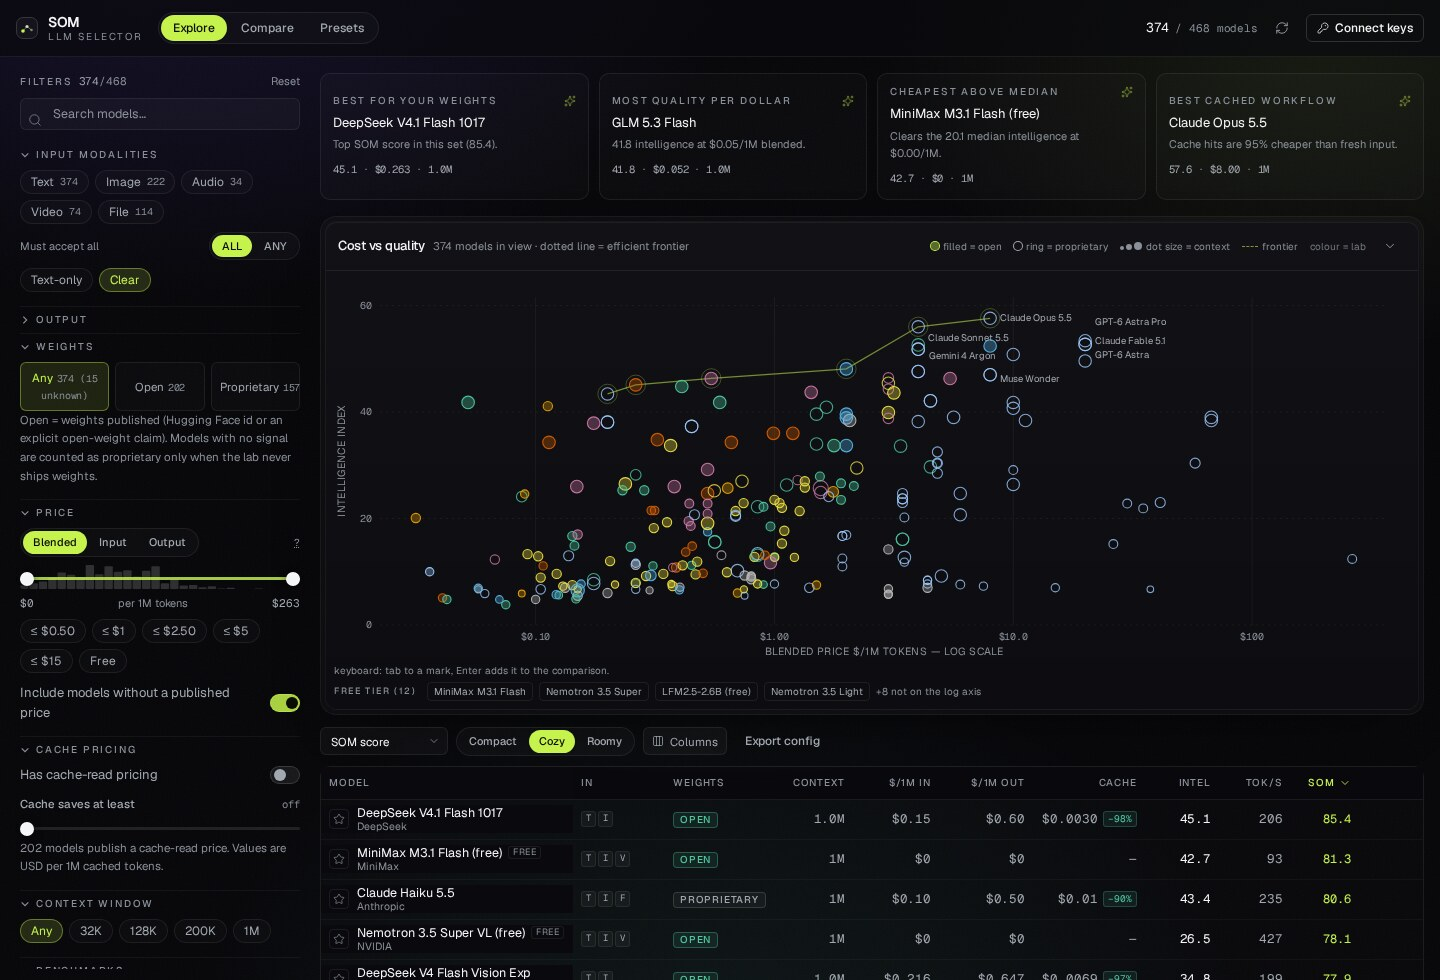
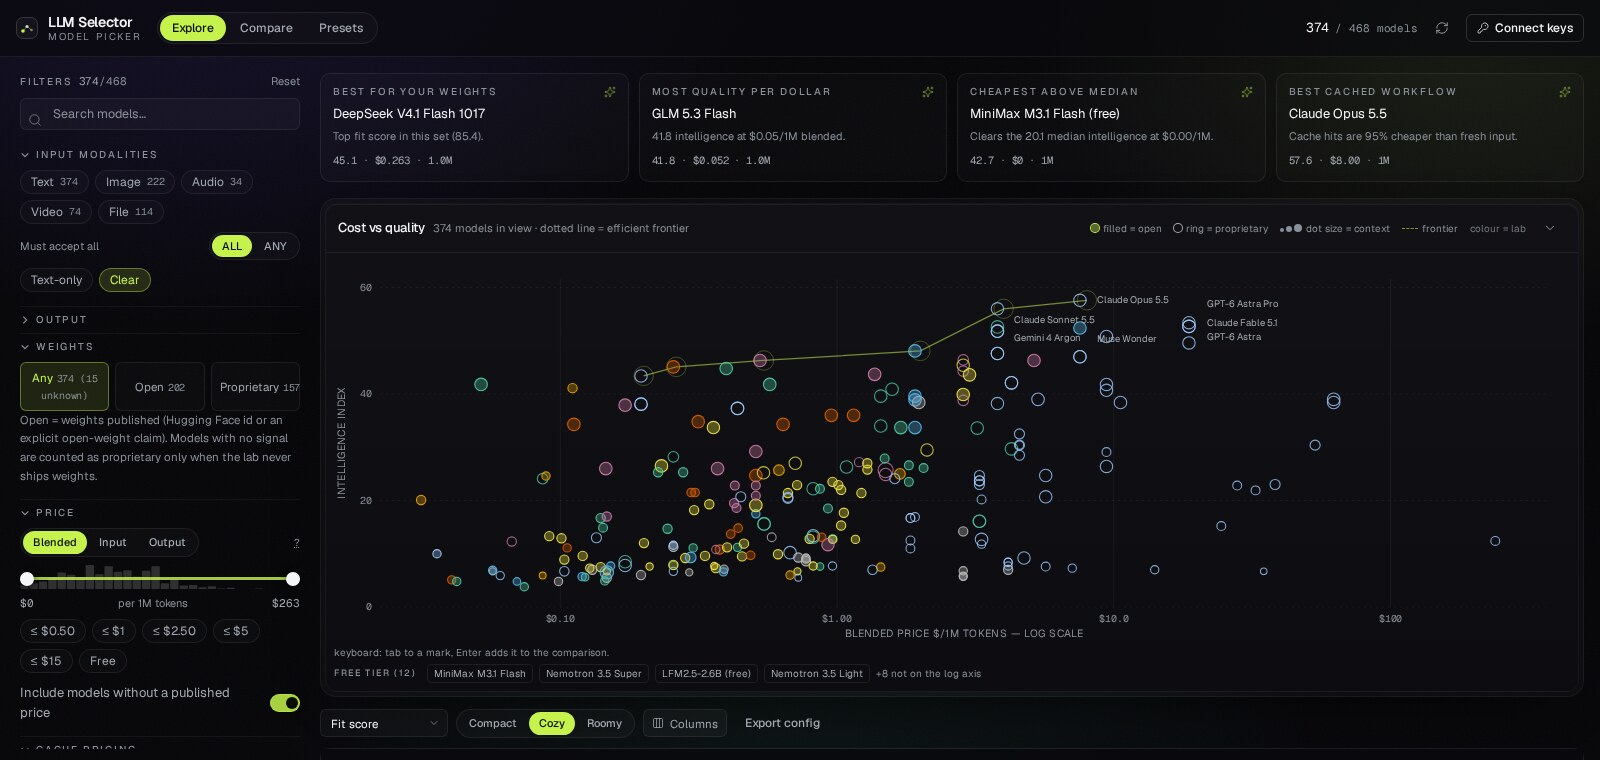
refactor: rename the product to LLM Selector (#7)
SOM is the system family (jev, leya, …); the product that picks an individual
model is the LLM Selector. Renames the wordmark, title, the SOM score (now
'fit score'), storage keys (llm-selector.*), the config app id and every doc
reference.

diff --git a/src/App.tsx b/src/App.tsx
@@ -43,7 +43,7 @@ import {
 import { buildConfig, importConfig, slugifyName } from "@/lib/presets";
 import {
   WEIGHT_LABELS,
-  computeSomScores,
+  computeFitScores,
   paretoFrontier,
   recommend,
 } from "@/lib/scoring";
@@ -108,13 +108,13 @@ export default function App() {
   const models = catalog?.models ?? [];
   const filtered = useMemo(() => applyFilters(models, filters), [models, filters]);
   const counts = useMemo(() => facetCounts(models, filters), [models, filters]);
-  const scoreParts = useMemo(() => computeSomScores(filtered, weights), [filtered, weights]);
-  const somMap = useMemo(() => {
+  const scoreParts = useMemo(() => computeFitScores(filtered, weights), [filtered, weights]);
+  const fitMap = useMemo(() => {
     const map = new Map<string, number>();
     for (const [id, parts] of scoreParts) map.set(id, parts.score);
     return map;
   }, [scoreParts]);
-  const sorted = useMemo(() => sortModels(filtered, sort, somMap), [filtered, sort, somMap]);
+  const sorted = useMemo(() => sortModels(filtered, sort, fitMap), [filtered, sort, fitMap]);
   const frontier = useMemo(() => paretoFrontier(filtered), [filtered]);
   const picks = useMemo(() => recommend(filtered, scoreParts), [filtered, scoreParts]);
   const modelsById = useMemo(() => new Map(models.map((model) => [model.id, model])), [models]);
@@ -247,9 +247,9 @@ export default function App() {
             <a href="#results" className="flex items-center gap-2.5">
               <BrandMark />
               <div className="leading-none">
-                <div className="text-[14px] font-semibold tracking-[-0.02em] text-fg">SOM</div>
+                <div className="text-[14px] font-semibold tracking-[-0.02em] text-fg">LLM Selector</div>
                 <div className="mt-[3px] hidden text-[10px] uppercase tracking-[0.16em] text-fg-dim sm:block">
-                  LLM selector
+                  model picker
                 </div>
               </div>
             </a>
@@ -355,7 +355,7 @@ export default function App() {
                 filtered={filtered}
                 sorted={sorted}
                 frontier={frontier}
-                somMap={somMap}
+                fitMap={fitMap}
                 sort={sort}
                 density={density}
                 columns={columns}
@@ -485,7 +485,7 @@ function ExploreView({
   filtered,
   sorted,
   frontier,
-  somMap,
+  fitMap,
   sort,
   density,
   columns,
@@ -506,7 +506,7 @@ function ExploreView({
   filtered: ReturnType<typeof applyFilters>;
   sorted: ReturnType<typeof sortModels>;
   frontier: Set<string>;
-  somMap: Map<string, number>;
+  fitMap: Map<string, number>;
   sort: Sort;
   density: "compact" | "cozy" | "comfortable";
   columns: typeof DEFAULT_COLUMNS;
@@ -702,7 +702,7 @@ function ExploreView({
             density={density}
             columns={columns}
             selected={selected}
-            somScores={somMap}
+            fitScores={fitMap}
             onSort={onSort}
             onToggle={onToggle}
             onInspect={onInspect}

diff --git a/src/lib/scoring.ts b/src/lib/scoring.ts
@@ -61,11 +61,11 @@ function qualityOf(model: LlmModel): number | null {
 }
 
 /**
- * SOM score: a percentile-normalised blend of the five dimensions the user said they care
+ * Fit score: a percentile-normalised blend of the five dimensions the user said they care
  * about. It is computed *within the current result set*, so it always answers
  * "which of these is best for me" rather than "which is best in absolute terms".
  */
-export function computeSomScores(
+export function computeFitScores(
   models: LlmModel[],
   weights: ScoreWeights,
 ): Map<string, ScoreParts> {
@@ -177,7 +177,7 @@ function median(values: number[]): number {
 /** Three opinionated picks that summarise the current result set. */
 export function recommend(
   models: LlmModel[],
-  somScores: Map<string, ScoreParts>,
+  fitScores: Map<string, ScoreParts>,
 ): Recommendation[] {
   if (!models.length) return [];
   const picks: Recommendation[] = [];
@@ -187,14 +187,14 @@ export function recommend(
   const withPrice = models.filter((m) => m.pricing.blended !== null);
 
   const bestSom = [...models]
-    .filter((m) => somScores.has(m.id))
-    .sort((a, b) => (somScores.get(b.id)?.score ?? 0) - (somScores.get(a.id)?.score ?? 0))[0];
+    .filter((m) => fitScores.has(m.id))
+    .sort((a, b) => (fitScores.get(b.id)?.score ?? 0) - (fitScores.get(a.id)?.score ?? 0))[0];
   if (bestSom) {
     used.add(bestSom.id);
     picks.push({
       id: "best-overall",
       title: "Best for your weights",
-      rationale: `Top SOM score in this set (${somScores.get(bestSom.id)?.score ?? 0}).`,
+      rationale: `Top fit score in this set (${fitScores.get(bestSom.id)?.score ?? 0}).`,
       model: bestSom,
     });
   }

diff --git a/src/components/model/ModelTable.tsx b/src/components/model/ModelTable.tsx
@@ -33,7 +33,7 @@ const COLUMNS: Column[] = [
   { key: "intelligence", label: "Intel", hint: "Artificial Analysis intelligence index", sortKey: "intelligence", align: "right", width: 74, hideInConfig: "intelligence" },
   { key: "coding", label: "Code", hint: "Coding index", sortKey: "coding", align: "right", width: 70, hideInConfig: "coding" },
   { key: "speed", label: "Tok/s", hint: "Median output tokens per second", sortKey: "speed", align: "right", width: 72, hideInConfig: "speed" },
-  { key: "som", label: "SOM", hint: "Blend of your weights, ranked within this set", sortKey: "som", align: "right", width: 68 },
+  { key: "som", label: "FIT", hint: "Fit score: your weights, ranked within this set", sortKey: "som", align: "right", width: 68 },
 ];
 
 export interface ModelTableProps {
@@ -42,7 +42,7 @@ export interface ModelTableProps {
   density: Density;
   columns: ColumnConfig;
   selected: string[];
-  somScores: Map<string, number>;
+  fitScores: Map<string, number>;
   onSort: (key: SortKey) => void;
   onToggle: (id: string) => void;
   onInspect: (id: string) => void;
@@ -55,7 +55,7 @@ export function ModelTable({
   density,
   columns,
   selected,
-  somScores,
+  fitScores,
   onSort,
   onToggle,
   onInspect,
@@ -221,7 +221,7 @@ export function ModelTable({
                     )}
                     {column.key === "som" && (
                       <span className="numeric text-[12px] text-accent">
-                        {somScores.get(model.id)?.toFixed(1) ?? "—"}
+                        {fitScores.get(model.id)?.toFixed(1) ?? "—"}
                       </span>
                     )}
                   </div>

diff --git a/tests/core.test.ts b/tests/core.test.ts
@@ -11,7 +11,7 @@ import {
   type Filters,
 } from "@/lib/filter";
 import { importConfig, mergeFilters, makePreset } from "@/lib/presets";
-import { computeSomScores, paretoFrontier, recommend } from "@/lib/scoring";
+import { computeFitScores, paretoFrontier, recommend } from "@/lib/scoring";
 import { decodeState, encodeState } from "@/lib/url";
 import type { BenchmarkScores, LlmModel } from "@/lib/types";
 
@@ -197,11 +197,11 @@ describe("filter engine", () => {
 
 describe("scoring", () => {
   it("ranks within the filtered set and respects weights", () => {
-    const cheapFirst = computeSomScores(models, { quality: 0, price: 100, speed: 0, context: 0, cache: 0 });
+    const cheapFirst = computeFitScores(models, { quality: 0, price: 100, speed: 0, context: 0, cache: 0 });
     const best = [...cheapFirst.entries()].sort((a, b) => b[1].score - a[1].score)[0];
     expect(best[0]).toBe("free/model");
 
-    const qualityFirst = computeSomScores(models, { quality: 100, price: 0, speed: 0, context: 0, cache: 0 });
+    const qualityFirst = computeFitScores(models, { quality: 100, price: 0, speed: 0, context: 0, cache: 0 });
     const top = [...qualityFirst.entries()].sort((a, b) => b[1].score - a[1].score)[0];
     expect(top[0]).toBe("open/expensive");
   });
@@ -222,7 +222,7 @@ describe("scoring", () => {
   });
 
   it("produces recommendations that exist in the set", () => {
-    const scores = computeSomScores(models, {
+    const scores = computeFitScores(models, {
       quality: 45,
       price: 25,
       speed: 12,

diff --git a/src/lib/filter.ts b/src/lib/filter.ts
@@ -72,7 +72,7 @@ export interface Sort {
 export const DEFAULT_SORT: Sort = { key: "som", dir: -1 };
 
 export const SORT_LABELS: Record<SortKey, string> = {
-  som: "SOM score",
+  som: "Fit score",
   intelligence: "Intelligence",
   coding: "Coding",
   agentic: "Agentic",
@@ -289,12 +289,12 @@ export function valueOf(model: LlmModel, sortKey: SortKey, somScore?: number): n
 export function sortModels(
   models: LlmModel[],
   sort: Sort,
-  somScores: Map<string, number> = new Map(),
+  fitScores: Map<string, number> = new Map(),
 ): LlmModel[] {
   const sorted = [...models];
   sorted.sort((a, b) => {
-    const av = valueOf(a, sort.key, somScores.get(a.id));
-    const bv = valueOf(b, sort.key, somScores.get(b.id));
+    const av = valueOf(a, sort.key, fitScores.get(a.id));
+    const bv = valueOf(b, sort.key, fitScores.get(b.id));
     // Missing data always sinks, regardless of direction — never sort `null` as zero.
     if (av === null && bv === null) return a.name.localeCompare(b.name);
     if (av === null) return 1;

diff --git a/src/lib/presets.ts b/src/lib/presets.ts
@@ -4,7 +4,7 @@ import { DEFAULT_FILTERS, DEFAULT_SORT, type Filters, type Sort } from "./filter
 import { DEFAULT_WEIGHTS, type ScoreWeights } from "./scoring";
 
 export const CONFIG_VERSION = 1;
-export const APP_ID = "som-llm-selector";
+export const APP_ID = "llm-selector";
 
 const modalitySchema = z.enum(["text", "image", "audio", "video", "file"]);
 const outputSchema = z.enum(["text", "image", "audio", "embeddings"]);
@@ -195,7 +195,7 @@ export function buildConfig({
   presets,
 }: BuildConfigArgs) {
   return {
-    $schema: "https://raw.githubusercontent.com/frederico-kluser/som-llm-selector/main/config.schema.json",
+    $schema: "https://raw.githubusercontent.com/frederico-kluser/llm-selector/main/config.schema.json",
     app: APP_ID,
     version: CONFIG_VERSION,
     exportedAt: new Date().toISOString(),

diff --git a/index.html b/index.html
@@ -4,8 +4,8 @@
     <meta charset="UTF-8" />
     <meta name="viewport" content="width=device-width, initial-scale=1.0" />
     <meta name="theme-color" content="#07070a" />
-    <title>SOM — LLM Selector</title>
-    <meta name="description" content="Filter 460+ LLM models by modality, openness, price, cache pricing and benchmarks. Compare, save presets, export your config." />
+    <title>LLM Selector — pick the model that fits your constraints</title>
+    <meta name="description" content="Open-source LLM selector: filter 470+ OpenRouter models by modality, openness, price, cache pricing and benchmarks, compare on charts, save presets, export your config." />
     <link rel="icon" href="/favicon.svg" type="image/svg+xml" />
   </head>
   <body>

diff --git a/src/components/ModelDrawer.tsx b/src/components/ModelDrawer.tsx
@@ -265,7 +265,7 @@ export function ModelDrawer({
                     <div className="mt-2">
                       {!canUseApi && (
                         <p className="text-[11px] text-fg-dim">
-                          Provider stats need the SOM API server. Run <code className="numeric">pnpm dev</code>.
+                          Provider stats need the llm-selector API server. Run <code className="numeric">pnpm dev</code>.
                         </p>
                       )}
                       {providerError && <p className="text-[11px] text-bad">{providerError}</p>}

diff --git a/src/components/views.tsx b/src/components/views.tsx
@@ -320,7 +320,7 @@ export function PresetsView({
       <div className="space-y-4">
         <div className="bezel">
           <div className="bezel-core p-3.5">
-            <span className="eyebrow">SOM score weights</span>
+            <span className="eyebrow">Fit score weights</span>
             <p className="mt-1 text-[11px] leading-relaxed text-fg-dim">
               Your priorities, applied within the current result set. Nothing is hidden — the score
               only reorders what the filters already allow.

diff --git a/src/store/selector.ts b/src/store/selector.ts
@@ -229,7 +229,7 @@ export const useSelector = create<SelectorState>()(
       },
     }),
     {
-      name: "som.selector.v1",
+      name: "llm-selector.view.v1",
       storage: createJSONStorage(() => localStorage),
       partialize: (state) => ({
         filters: state.filters,

diff --git a/src/lib/api.ts b/src/lib/api.ts
@@ -8,7 +8,7 @@ export interface Keys {
   artificialAnalysis: string;
 }
 
-const KEY_STORAGE = "som.keys.v1";
+const KEY_STORAGE = "llm-selector.keys.v1";
 const EMPTY_KEYS: Keys = { openrouter: "", artificialAnalysis: "" };
 
 function parseKeys(raw: string | null): Keys | null {

diff --git a/README.md b/README.md
@@ -1,18 +1,20 @@
-# SOM — LLM Selector
+# LLM Selector
 
 **Find the model that fits your constraints, not the one on the leaderboard.**
 
-SOM is a local-first model selector for the OpenRouter catalogue. Filter 460+ chat models by
+LLM Selector is a local-first model picker for the OpenRouter catalogue. Filter 460+ chat models by
 modality (text / image / audio / video / file), open vs proprietary weights, blended price, cache
 pricing, context window and benchmark floors — then compare what survives on a log-scale cost/quality
 scatter, a benchmark profile and a leaderboard. Save filter sets as presets, and move your whole setup
 in and out as JSON.
 
+> **Naming:** *SOM* is the system family — a system that orchestrates models (`jev`, `leya`); inside an LLM system you find the individual models (`gpt`, `opus`, …). This project is the **LLM Selector**: the thing that picks the model.
+>
 > Code: MIT. Data: see [Data sources & attribution](#data-sources--attribution). This is an
 > independent project — not affiliated with, endorsed by, or sponsored by OpenRouter or Artificial
 > Analysis.
 
-![SOM in the explore view](docs/screenshot.jpg)
+![LLM Selector in the explore view](docs/screenshot.jpg)
 
 ---
 
@@ -21,10 +23,10 @@ in and out as JSON.
 Every "best LLM" list answers a question you did not ask. The useful question is *"of the models I can
 actually call, which ones accept my input, cost what I can spend, and clear the quality bar I need?"*
 
-SOM treats that as a filter problem plus a scoring problem:
+LLM Selector treats that as a filter problem plus a scoring problem:
 
 - **Hard constraints** narrow the catalogue using only published facts.
-- **SOM score** ranks what remains with weights *you* set. It is computed **inside the current result
+- **fit score** ranks what remains with weights *you* set. It is computed **inside the current result
   set**, so it answers "which of these" rather than "which in absolute terms".
 - **Provenance is always visible.** A missing benchmark renders as `—`, never as `0`. Benchmarks
   matched onto a model by heuristic carry a confidence label.
@@ -32,8 +34,8 @@ SOM treats that as a filter problem plus a scoring problem:
 ## Quickstart
 
 ```bash
-git clone https://github.com/frederico-kluser/som-llm-selector.git
-cd som-llm-selector
+git clone https://github.com/frederico-kluser/llm-selector.git
+cd llm-selector
 pnpm install
 pnpm dev            # API on :8899, web on :5173
 ```
